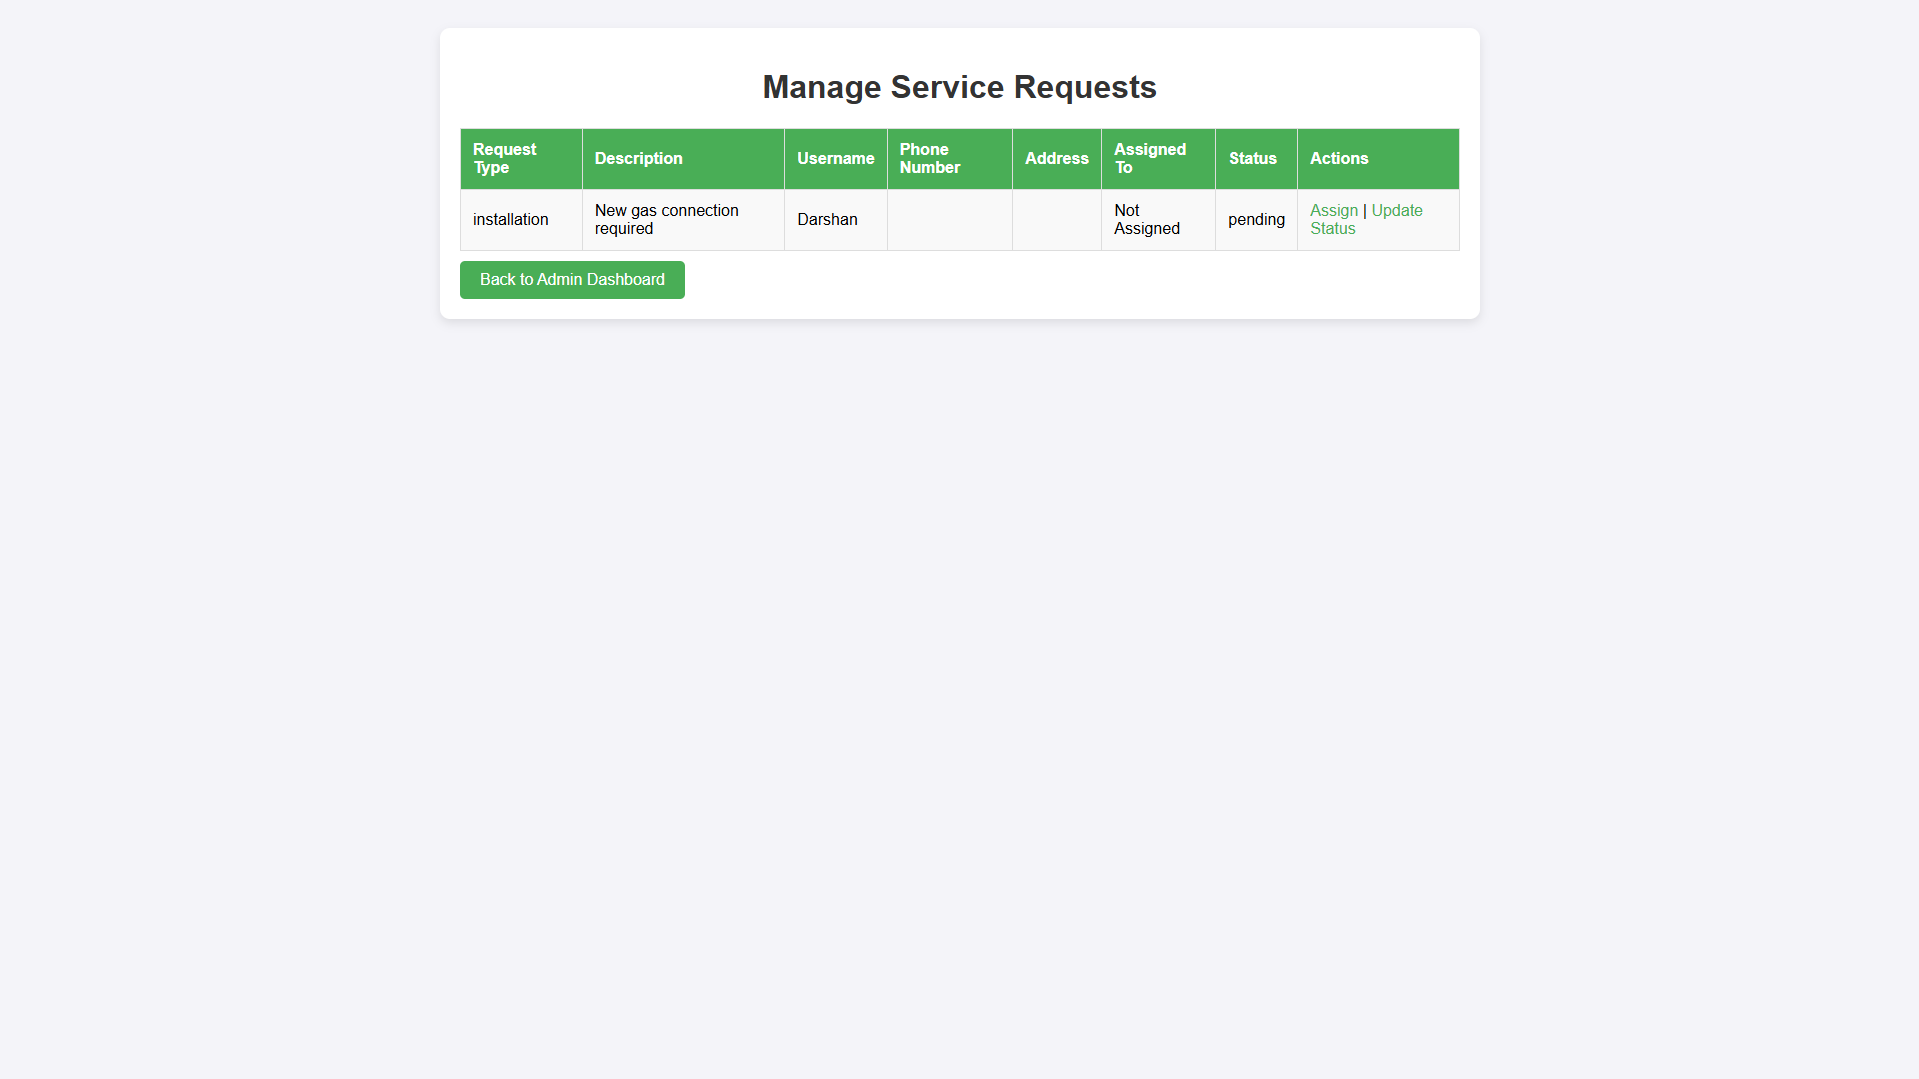
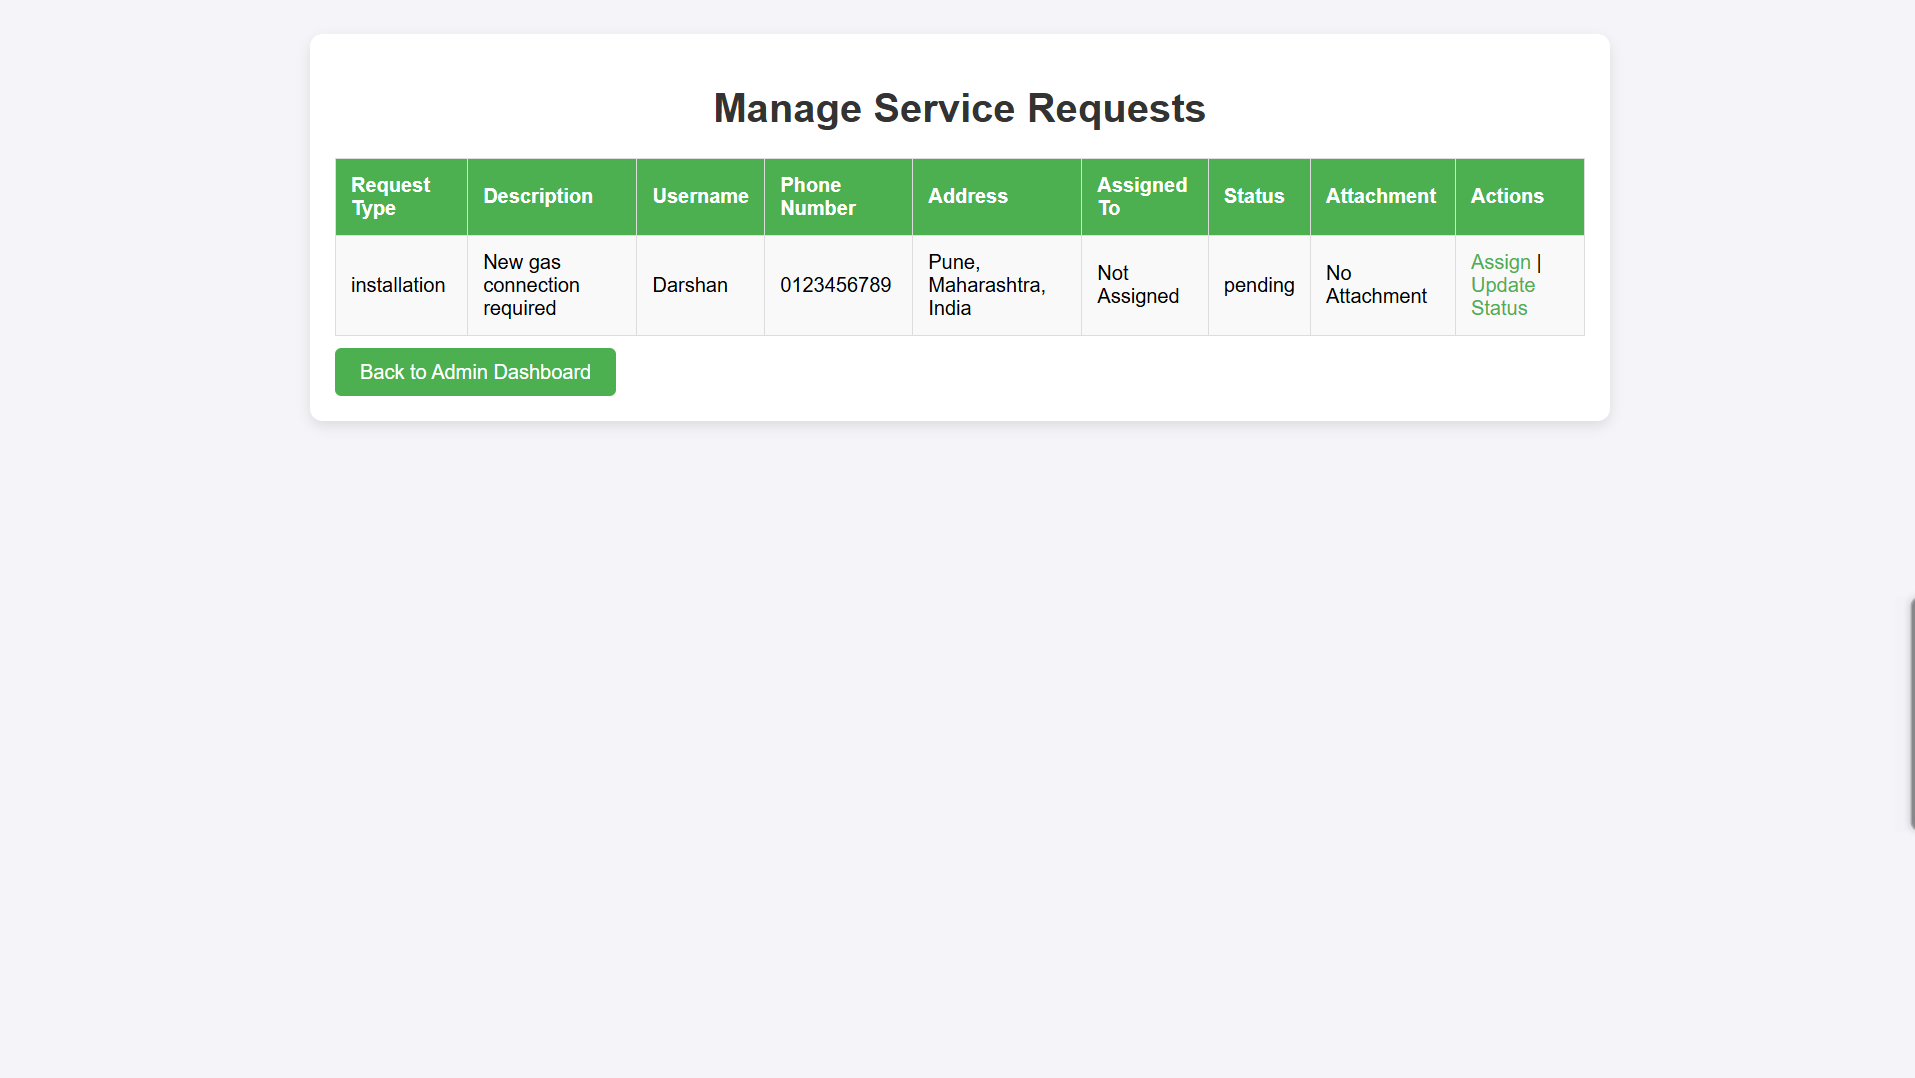
Add 'view attachment' in admin dashboard.

Changed region(s): [[0.154, 0.0612, 0.8319, 0.3673], [0.9859, 0.551, 1.0, 0.7653]]

diff --git a/service/templates/service/manage_service_requests.html b/service/templates/service/manage_service_requests.html
@@ -91,6 +91,7 @@
                     <th>Address</th>
                     <th>Assigned To</th>
                     <th>Status</th>
+                    <th>Attachment</th>  <!-- New column for attachments -->
                     <th>Actions</th>
                 </tr>
             </thead>
@@ -100,8 +101,8 @@
                     <td>{{ request.request_type }}</td>
                     <td>{{ request.description }}</td>
                     <td>{{ request.user.username }}</td>
-                    <td>{{ request.user.profile.phone_number }}</td>  <!-- Assuming the user has a profile with phone number -->
-                    <td>{{ request.user.profile.address }}</td>      <!-- Assuming the user has a profile with address -->
+                    <td>{{ request.user.phone_number }}</td>  
+                    <td>{{ request.user.address }}</td>
                     <td>
                         {% if request.assigned_to %}
                             {{ request.assigned_to.username }}
@@ -111,13 +112,20 @@
                     </td>
                     <td>{{ request.status }}</td>
                     <td>
+                        {% if request.attachment %}
+                            <a href="{{ request.attachment.url }}" target="_blank">View Attachment</a>
+                        {% else %}
+                            No Attachment
+                        {% endif %}
+                    </td>
+                    <td>
                         <a href="{% url 'service:assign_service_request' request.id %}">Assign</a> |
                         <a href="{% url 'service:update_service_request_status' request.id %}">Update Status</a>
                     </td>
                 </tr>
                 {% endfor %}
             </tbody>
-        </table>
+        </table>        
 
         <a href="{% url 'service:admin_dashboard' %}" class="btn">Back to Admin Dashboard</a>
     </div>

diff --git a/service/models.py b/service/models.py
@@ -19,7 +19,7 @@ class ServiceRequest(models.Model):
     user = models.ForeignKey(settings.AUTH_USER_MODEL, on_delete=models.CASCADE, related_name='service_requests')  # User creating the request
     request_type = models.CharField(max_length=20, choices=REQUEST_TYPES)
     description = models.TextField()
-    attachment = models.FileField(upload_to='attachments/', blank=True, null=True)  # Optional attachment
+    attachment = models.FileField(upload_to='attachments/', blank=True, null=True) 
     status = models.CharField(max_length=20, choices=STATUS_CHOICES, default='pending')
     assigned_to = models.ForeignKey(settings.AUTH_USER_MODEL, on_delete=models.SET_NULL, null=True, blank=True, related_name='assigned_requests')  # Staff assignment
     created_at = models.DateTimeField(auto_now_add=True)

diff --git a/service/admin.py b/service/admin.py
@@ -13,7 +13,7 @@ admin.site.register(CustomerSupport, CustomerAdmin)
 
 # Register the ServiceRequest model to be managed in the admin interface
 class ServiceRequestAdmin(admin.ModelAdmin):
-    list_display = ('user', 'request_type', 'status', 'created_at', 'updated_at')  # Updated fields
+    list_display = ('user', 'request_type', 'status', 'created_at', 'updated_at', 'attachment')  # Updated fields
     search_fields = ('user__name', 'request_type', 'status')  # Search fields updated
     list_filter = ('status', 'request_type', 'created_at')  # Updated filter
     ordering = ('-created_at',)  # Orders the list based on the most recent service request
